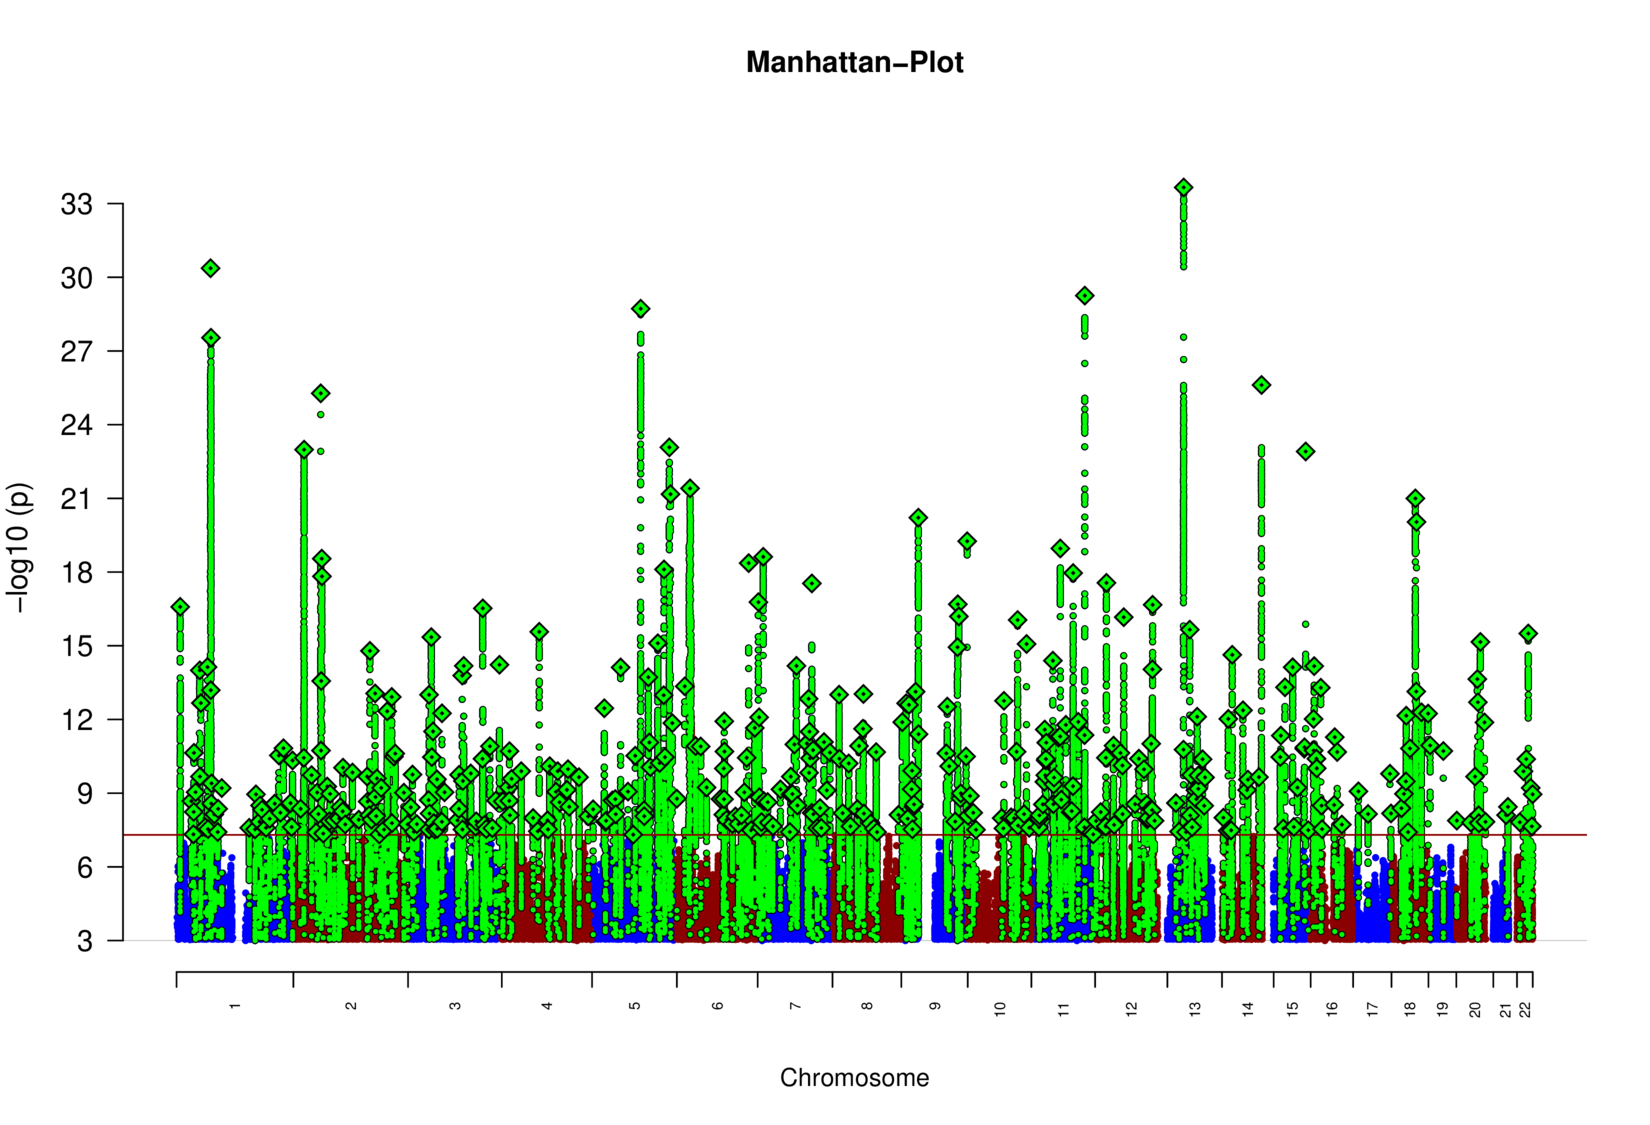
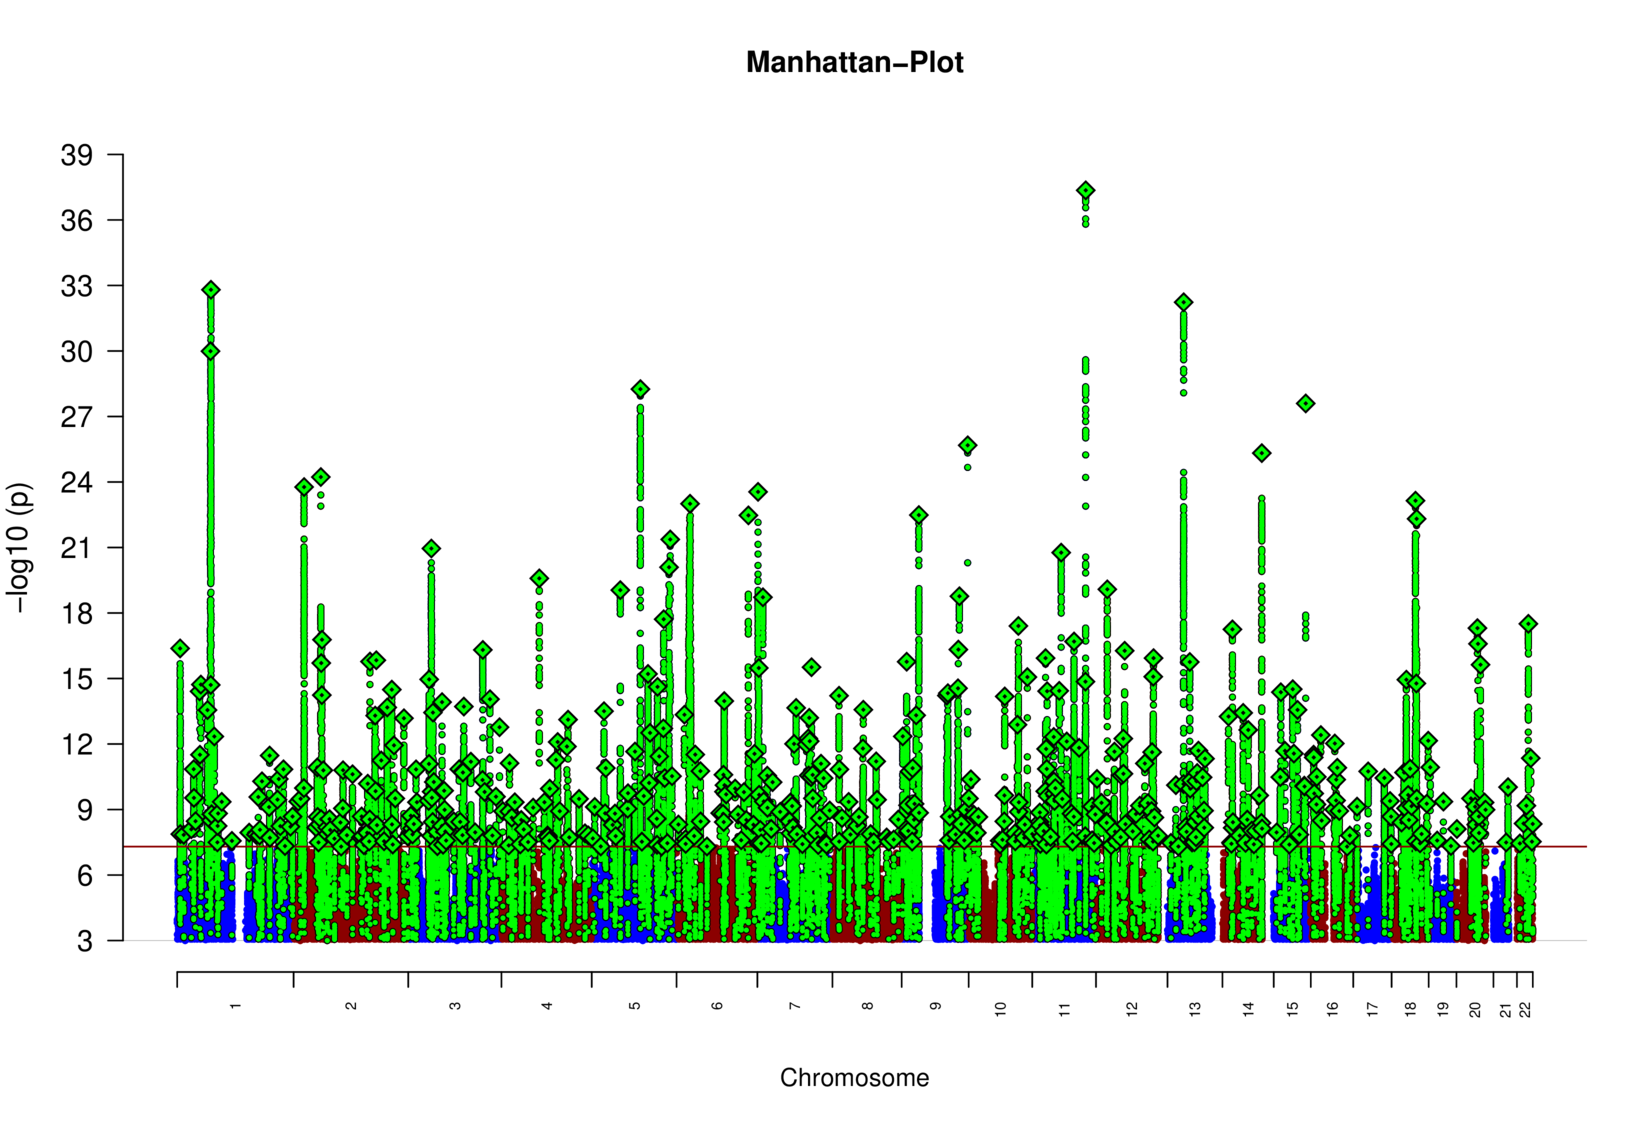
Meta: update cohorts table with BioVU, EXCEED, and MVP (v3.29.21)

diff --git a/README.md b/README.md
@@ -18,7 +18,7 @@ Meta-analysis of cohorts from the [MDD2](https://doi.org/10.1038/s41588-018-0090
 
 and the following new cohorts:
 
-- [ALSPAC](http://www.bristol.ac.uk/alspac/), [FinnGen](https://www.finngen.fi/en), [23andMe](https://www.23andme.com/) (v7.2), [Airwave](https://police-health.org.uk), [Partners Biobank](https://biobank.partners.org), [MoBa](https://www.fhi.no/en/studies/moba/), [HUNT](https://www.ntnu.edu/hunt/databank), [Estonian Biobank](https://genomics.ut.ee/en/access-biobank), [AGDS](https://www.geneticsofdepression.org.au), Swedish studies (PREFECT, STAGE, iCBT, Basic).
+- [ALSPAC](http://www.bristol.ac.uk/alspac/), [FinnGen](https://www.finngen.fi/en), [23andMe](https://www.23andme.com/) (v7.2), [Airwave](https://police-health.org.uk), [Partners Biobank](https://biobank.partners.org), [MoBa](https://www.fhi.no/en/studies/moba/), [HUNT](https://www.ntnu.edu/hunt/databank), [Estonian Biobank](https://genomics.ut.ee/en/access-biobank), [AGDS](https://www.geneticsofdepression.org.au), Swedish studies (PREFECT, STAGE, iCBT, Basic), [BioVU](https://victr.vumc.org/biovu-description), [EXCEED](https://exceed.org.uk), [MVP](https://www.research.va.gov/mvp/).
 
 …plus more as they are incorporated into the analysis.
 

diff --git a/docs/updates.md b/docs/updates.md
@@ -1,5 +1,10 @@
 # Project updates
 
+# 15 Jan 2021
+
+- **v3.29.21** Add BioVU, EXCEED, MVP _[EUR]_
+- calculate LDSC rg with MDD29 (PGC clinical cohorts)
+
 # 4 Dec 2020
 
 - **v3.29.18** Add Basic, iCBT. _[EUR]_
